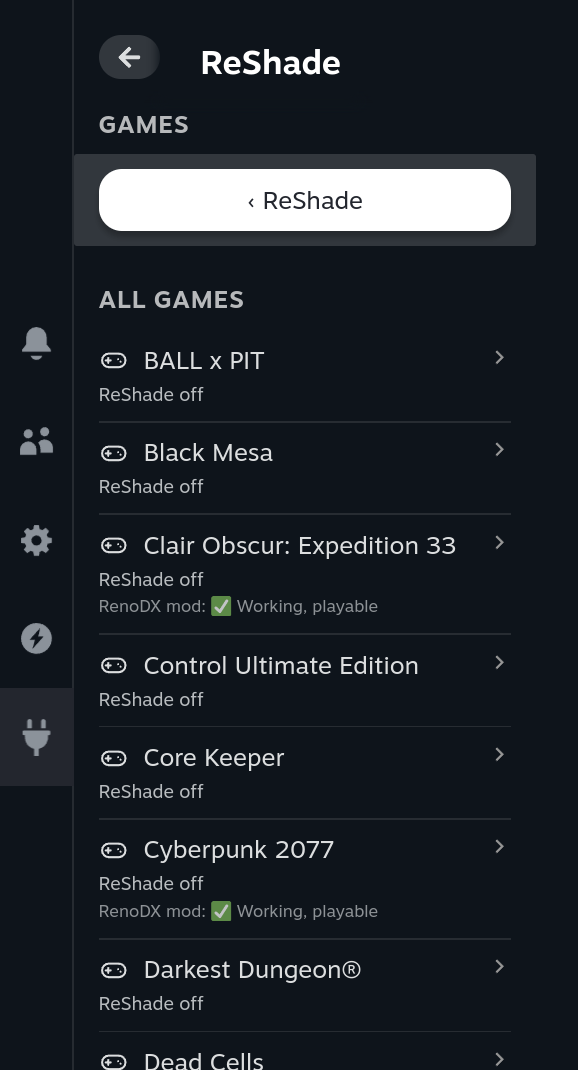
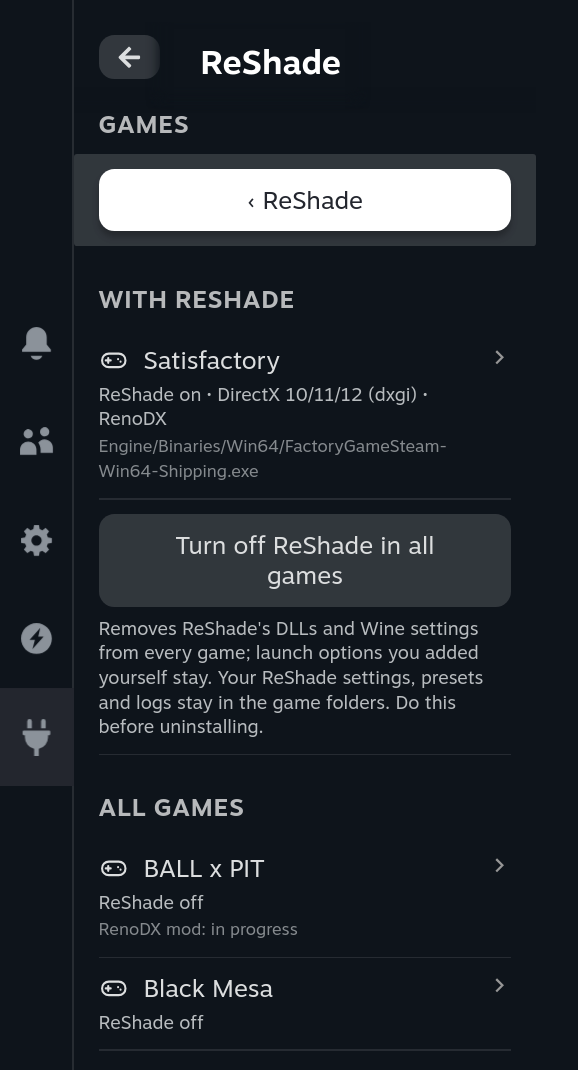
docs(readme): describe HDR, engine-wide RenoDX and Engine.ini; new screenshots
The README covers what the panel does now, and the screenshots show the
current pages. The panel says which games get a Wine setting more exactly.

diff --git a/src/pages.tsx b/src/pages.tsx
@@ -88,7 +88,7 @@ export const ReshadePage: FC<{ state: State; working: boolean; run: Run }> = ({ 
           <ToggleField label="Use launch options" checked={settings.use_launch_options} disabled={working}
             description={settings.use_launch_options
               ? "You add ReShade's line to each game's launch options: turning a game on copies it, and the game's page has a Copy button. Nothing else is changed outside the game folder."
-              : "Off: no launch options needed. ReShade starts by itself; OpenGL and Direct3D 10 games get a Wine setting for their executable, made after the game's first start. Turn on if ReShade does not start in a game."}
+              : "Off: no launch options needed. ReShade starts by itself; OpenGL games (and Direct3D 10 when picked by hand) get a Wine setting for their executable, made after the game's first start. Turn on if ReShade does not start in a game."}
             onChange={on => run(() => setSetting("use_launch_options", on))} />
         </PanelSectionRow>
       </PanelSection>

diff --git a/README.md b/README.md
@@ -29,13 +29,13 @@ update. DeckyReshade does all of that from the Quick Access Menu and keeps track
 | **Per game** | The game you are playing is at the top. The executable, its bitness and its graphics API are read from the game files; you can change both |
 | **Non-Steam games** | Windows games and emulators added to Steam work like Steam games |
 | **AutoHDR** | HDR for SDR games on HDR screens (Steam Deck OLED, Legion Go 2 and other OLED handhelds), per game |
-| **RenoDX** | Every game in your library that has a [RenoDX](https://github.com/clshortfuse/renodx) HDR mod shows its status (working or in progress); one switch downloads and installs it |
+| **RenoDX** | Every game in your library that has a [RenoDX](https://github.com/clshortfuse/renodx) HDR mod shows its status and notes, including the Unreal Engine and Unity mods for the games they list; one switch downloads and installs it, with the Engine.ini lines an Unreal Engine game's note asks for |
 | **ReShade updates** | The newest ReShade DeckyReshade has checksums for, updated automatically in every game, or a fixed version (6.3.3 to 6.8.0); a newer ReShade on reshade.me is announced and comes with a plugin update |
 | **Shader packages** | The same list ReShade's own installer offers, shared by all games, with updates |
-| **No launch options** | ReShade starts by itself; OpenGL and Direct3D 10 games get a Wine setting for their executable alone, removed again with ReShade. Prefer launch options? **Use launch options** gives every game a Copy button |
-| **Never fails silently** | Each game shows when ReShade last started and its errors; if it did not start twice in a row, you are told what to change |
+| **No launch options** | ReShade starts by itself; OpenGL games (and Direct3D 10 when picked by hand) get a Wine setting for their executable alone, removed again with ReShade. Prefer launch options? **Use launch options** gives every game a Copy button |
+| **Never fails silently** | Each game shows when ReShade last started and its errors, and whether AutoHDR got HDR; if ReShade did not start twice in a row, you are told what to change |
 | **Logs and report** | ReShade's log per game, the plugin's log, and a one-file report for bug reports |
-| **Clean rollback** | Only files the plugin wrote are removed (checked by SHA-256); your ReShade settings and presets stay (only an AutoHDR starter preset you never changed goes with AutoHDR) |
+| **Clean rollback** | Only files the plugin wrote are removed (checked by SHA-256), and a game file or setting it changed (a shader compiler set aside, a Wine setting, an Engine.ini) is put back; your ReShade settings and presets stay (only an AutoHDR starter preset you never changed goes with AutoHDR) |
 | **Updates** | **About → Check for updates** downloads a newer release from GitHub to your Downloads folder and checks it |
 
 ## Requirements
@@ -80,11 +80,16 @@ set up.
 
 Open **Games** and press **Turn off ReShade in all games** first: Decky handles a plugin update as uninstall plus
 install, so the plugin never removes anything from games on its own. Then **Troubleshooting → Remove downloaded
-files** deletes ReShade, add-ons and shaders. To clean a game by hand, delete the ReShade DLL (`dxgi.dll`,
-`d3d9.dll`, … next to its executable), `d3dcompiler_47.dll` if the game did not ship one (or rename
-`d3dcompiler_47.dll.deckyreshade-backup` back to it), `AutoHDR.addon*` and `renodx-*.addon*`. An OpenGL or Direct3D 10 game also has a `DllOverrides` key for its executable under
-`Software\Wine\AppDefaults` in its prefix's `user.reg`; launch options you added yourself stay until you remove
-them.
+files** deletes ReShade, add-ons and shaders. To clean a game by hand:
+
+- delete the ReShade DLL (`dxgi.dll`, `d3d9.dll`, … next to its executable), `d3dcompiler_47.dll` if the game did
+  not ship one (or rename `d3dcompiler_47.dll.deckyreshade-backup` back to it), `AutoHDR.addon*` and
+  `renodx-*.addon*`;
+- an OpenGL or Direct3D 10 game also has a `DllOverrides` key for its executable under `Software\Wine\AppDefaults`
+  in its prefix's `user.reg`;
+- an Unreal Engine game set up with Engine.ini has `Engine.ini.deckyreshade-backup` beside its `Engine.ini`
+  (`AppData/Local/<project>/Saved/Config/Windows` in its prefix): rename it back;
+- launch options you added yourself stay until you remove them.
 
 ## Quick start
 
@@ -107,7 +112,7 @@ The main page lists what you can do; each row opens its own page and **‹** tak
 ### Games
 
 <a href="docs/screenshots/games.png"><img src="docs/screenshots/games.png" alt="The game list with each game's RenoDX status" width="360"></a>
-<a href="docs/screenshots/game.png"><img src="docs/screenshots/game.png" alt="A game's page: ReShade, HDR and Advanced" width="360"></a>
+<a href="docs/screenshots/game.png"><img src="docs/screenshots/game.png" alt="A game's page: ReShade and HDR, with a RenoDX mod and its note" width="360"></a>
 
 **Games** lists your library: the games with ReShade first, then all others, the one you are playing on top, each
 with its RenoDX status. A game's page has three parts:
@@ -115,7 +120,7 @@ with its RenoDX status. A game's page has three parts:
 | Part | What is in it |
 |---|---|
 | **ReShade** | The switch, and when ReShade last started in the game with its errors |
-| **HDR** | **AutoHDR**; the game's **RenoDX mod** with its status, maintainer and notes, **Use the RenoDX mod**, **Update RenoDX mod**, and **Another RenoDX mod** when the match is wrong or missing |
+| **HDR** | **Open display settings** when HDR is off in Steam; **AutoHDR** and what its last start did; the game's **RenoDX mod** with its status, maintainer and the list's note in a frame (green working, yellow in progress, red anything else), **Use the RenoDX mod**, **Update RenoDX mod**, and **Another RenoDX mod** when the match is wrong or missing |
 | **Advanced** | **Executable** (the one running right now is marked), **Graphics API** (Auto, or DirectX 10/11/12, Direct3D 8/9, 10, 11, 12, OpenGL, or dinput8 as a last resort) and **Show ReShade log** |
 
 Changing anything while ReShade is on sets the game up again with the new choice.
@@ -165,10 +170,10 @@ The standard effects and SweetFX come with setup. Any package from ReShade's own
 ### Launch options
 
 DeckyReshade never touches launch options, so it works the same next to your own options and other tools such as
-[Decky Launch Options](https://github.com/Rayekkk/DeckyLaunchOptions). Proton already loads DirectX 9-12 DLLs from
-the game folder first, and Wine does the same for `d3dcompiler_47` and `dinput8`. OpenGL and Direct3D 10 games get
-a Wine setting in their prefix instead, for their executable alone; it is made the first time you turn ReShade on
-and taken out when you turn it off. That needs the game to have been started once (Proton makes its prefix then)
+[Decky Launch Options](https://github.com/Rayekkk/DeckyLaunchOptions). Proton already loads `dxgi`, `d3d9`, `d3d11`
+and `d3d12` from the game folder first (DirectX 9 to 12 games), and Wine does the same for `d3dcompiler_47` and
+`dinput8`. OpenGL games, and Direct3D 10 when you pick it by hand, get a Wine setting in their prefix instead, for
+their executable alone; it is made the first time you turn ReShade on and taken out when you turn it off. That needs the game to have been started once (Proton makes its prefix then)
 and to be closed at the time.
 
 If ReShade does not start in a game this way (for example with `PROTON_USE_WINED3D=1` or your own `dxgi=b`), turn
@@ -184,8 +189,9 @@ its line, and **Copy launch options** on the game's page copies it again.
 |---|---|
 | "ReShade has not started in this game yet" after playing | Pick the **Executable** marked *running now* while the game runs, or another **Graphics API**; dinput8 works with most games |
 | "ReShade did not start in … twice in a row" | The same, or turn on **Use launch options** and paste the line into the game's launch options |
-| "Start the game once first…" | An OpenGL or Direct3D 10 game needs its Proton prefix: start the game, quit it, then turn ReShade on |
-| "…close the game first…" | Wine writes its settings back when the game exits; quit the game and try again |
+| "Start the game once first…" | An OpenGL or Direct3D 10 game needs its Proton prefix, and an Unreal Engine game set up with Engine.ini its settings folder: start the game, quit it, then try again |
+| "…close the game first…" | Wine (or the game, for Engine.ini) writes its settings back when the game exits; quit the game and try again |
+| "This game's Unreal Engine folders are not where DeckyReshade looks for them" | Add the Engine.ini lines from the RenoDX list by hand |
 | "…already has its own Wine setting for…" | Your own Wine setting for that DLL stays; turn on **Use launch options** instead |
 | Errors under "Last start" | **Show ReShade log** names the failing effect; **Update shaders**, or turn that effect off in ReShade |
 | Every effect fails with "unrecognized compiler target 'vs_5_1'" | The game's own shader compiler is too old for DirectX 12: turn ReShade off and on again for the game, and DeckyReshade puts a newer one in (the game's is kept) |
@@ -233,12 +239,19 @@ For OpenGL and Direct3D 10 the plugin adds `"<api>"="native,builtin"` under
 `Software\Wine\AppDefaults\<exe>\DllOverrides` in the prefix's `user.reg`, only while no process runs in
 that prefix, and removes it only while it still has that value; a value you set yourself is never changed.
 
+For an Unreal Engine game whose RenoDX note asks for Engine.ini, the plugin finds the project (the folder with
+`Binaries` and `Content`), adds the wiki's values to `Engine.ini` under `AppData/Local/<project>/Saved/Config` in the
+prefix (keeping the rest of the file), makes it read-only and keeps the original beside it, and sets the mod's
+Upgrade Path to Off in `ReShade.ini` (`[renodx] Set_Path=0`). Turning the mod off puts the original back while the
+file is still what the plugin wrote. A RenoDX add-on that is already the newest snapshot (the same SHA-256 as on
+GitHub) is not downloaded again, so an engine-wide mod is fetched once for all its games.
+
 A game moved to another library (Steam takes ReShade's files along) is followed there when the library is
 scanned, and one that is no longer installed is dropped from the list; a game on an SD card that is out stays set
 up until the card is back.
 
 After each session the plugin checks that ReShade wrote its log during it; a game where it did not twice in a
-row gets a notification. Nothing is installed system-wide and Proton is not modified.
+row gets a notification, and so, once, does a game where the AutoHDR add-on left the picture in SDR. Nothing is installed system-wide and Proton is not modified.
 
 </details>
 
@@ -300,7 +313,7 @@ reviewed the results and chose what was released.
 The AI was used to:
 
 - write the Python backend and the Decky panel;
-- build the automated test suites (about 200 tests run on Linux and Windows for every change);
+- build the automated test suites (about 260 tests run on Linux and Windows for every change);
 - audit the code for bugs, security issues and wasted work, with every finding checked by
   independent review passes and, where possible, reproduced before it was fixed;
 - research how ReShade, its installer, AutoHDR, RenoDX and Proton's DLL loading work, and write
@@ -308,13 +321,14 @@ The AI was used to:
 
 Nothing here is untested AI output. I tested the plugin on my Legion Go 2 in Gaming Mode:
 setup, ReShade in DirectX 11 games with the shaders compiling and the AutoHDR add-on loading,
-ReShade without launch options in DirectX 9, DirectX 11 and OpenGL games, RenoDX mod downloads,
-switching ReShade versions, logs and the report, and executable and API detection across a
-46-game library.
+ReShade without launch options in DirectX 9, DirectX 11 and OpenGL games, AutoHDR switching a
+DirectX 11 game to HDR, RenoDX mod downloads including the Unity and Unreal Engine (with
+Engine.ini) engine-wide mods, switching ReShade versions, logs and the report, and executable and
+API detection across a 47-game library.
 Features were held back until they behaved correctly on the real device, and a checked SHA-256
 for every DLL and add-on placed in a game folder, and an exact rollback of each game's files and
-Wine settings, were kept as hard requirements. HDR output and Direct3D 9 games still need more
-testing.
+Wine settings, were kept as hard requirements. HDR output was checked in the logs, not yet by eye,
+and Direct3D 9 games still need more testing.
 
 Even so, this plugin changes files in your game folders. It is provided as is, without warranty
 (see [License](#license)); use it at your own risk.
